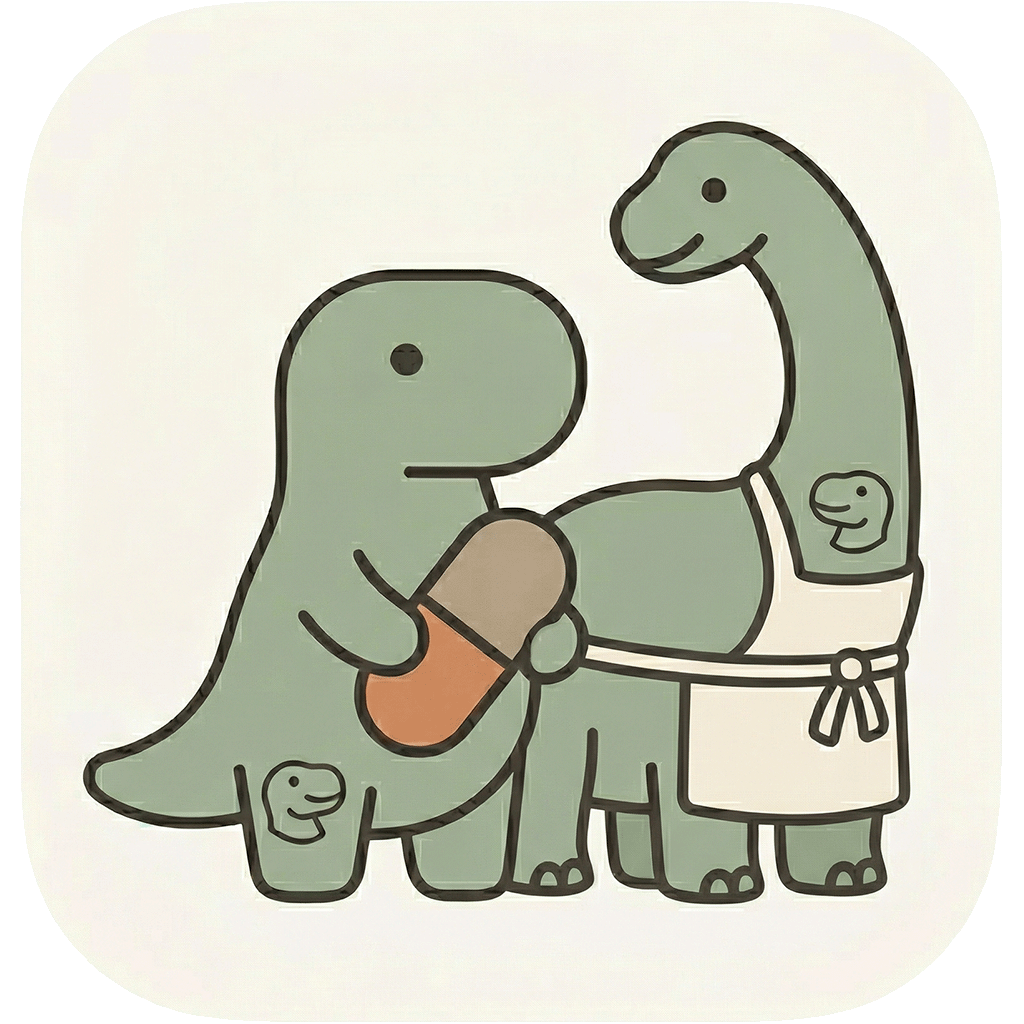
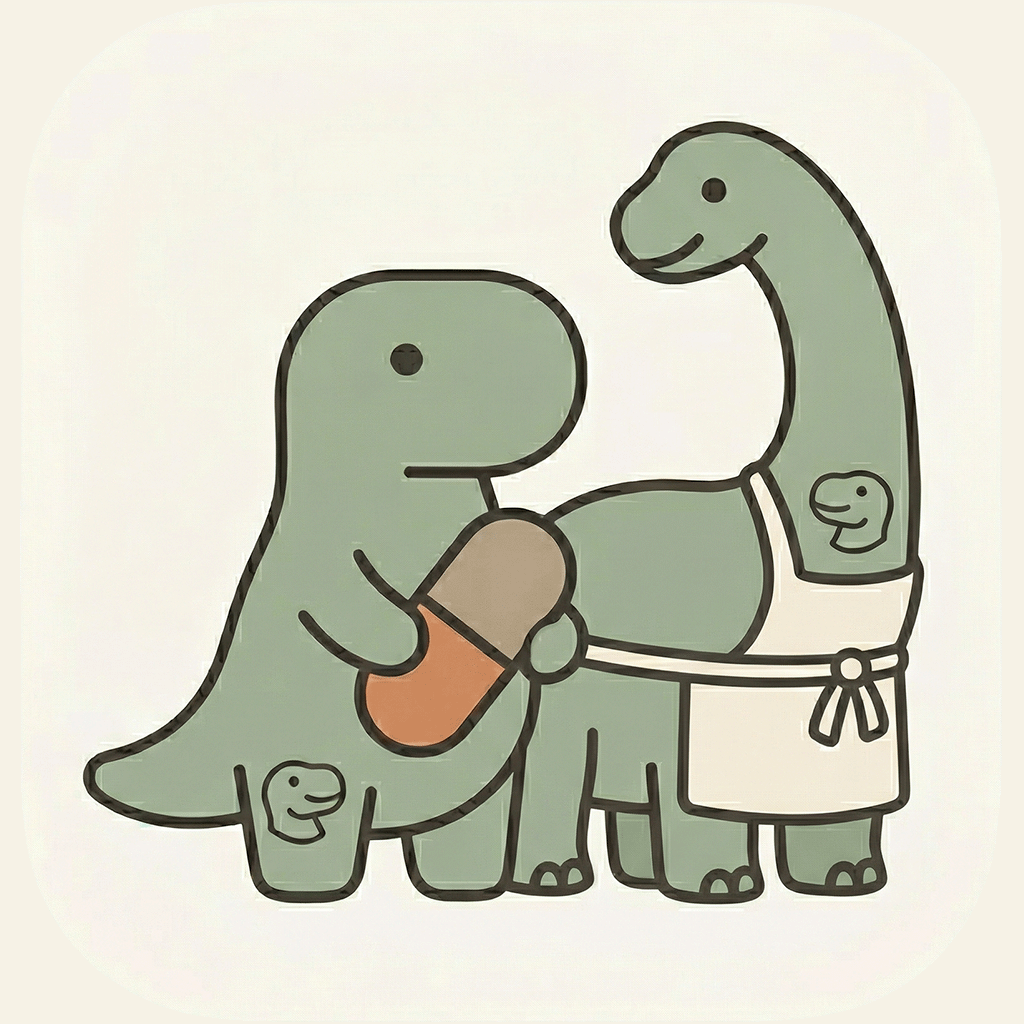
feat(release): preparar publicación App Store
- eas.json: EXPO_PUBLIC_BACKEND_URL en production (stock compartido rompía sin ella); esqueleto submit.production (PENDIENTE_* a rellenar por Diana)
- scripts/eas-write-env.js: materializa .env desde EAS env vars en el worker para que @env vea SENTRY_DSN/POSTHOG_* en builds de nube
- package.json: scripts eas:build:production y eas:submit:production
- app.json: usage strings HealthKit unificados (infoPlist = plugin kingstinct); quitar @sentry/react-native duplicado en plugins
- docs/store/app-store-metadata.md: ficha, descripción, keywords, notas al reviewer (modo demo), guía de screenshots y App Privacy campo por campo
- PRIVACY.md: URL canónica pública y contacto concreto
- release-versioning.md: flujo App Store actualizado (EAS env vars, submit, URL privacidad)
- assets: icon.png aplanado sin canal alpha (evita ITMS-90717); splash-icon.png 5.0→2.1 MB

Changed region(s): [[0.75, 0.0, 1.0, 1.0], [0.0, 0.0, 0.25, 1.0]]

diff --git a/scripts/eas-write-env.js b/scripts/eas-write-env.js
@@ -1,0 +1,22 @@
+/**
+ * En EAS Build materializa `.env` desde las env vars del worker para que
+ * babel-plugin-dotenv-import (`@env`) las vea: las EAS env vars llegan como
+ * process.env pero babel solo lee el archivo `.env` (gitignored, ausente en la nube).
+ * Fuera de EAS, o si ya existe `.env`, no hace nada.
+ */
+const fs = require('fs');
+const path = require('path');
+
+const KEYS = ['SENTRY_DSN', 'POSTHOG_API_KEY', 'POSTHOG_HOST'];
+
+const envPath = path.join(__dirname, '..', '.env');
+
+if (process.env.EAS_BUILD !== 'true' || fs.existsSync(envPath)) {
+  process.exit(0);
+}
+
+const present = KEYS.filter((key) => process.env[key]);
+const lines = present.map((key) => `${key}=${process.env[key]}`);
+// Siempre escribe el archivo (aunque quede vacío) para que dotenv-import no falle por ENOENT.
+fs.writeFileSync(envPath, lines.length ? `${lines.join('\n')}\n` : '');
+console.log(`[eas-write-env] .env generado con: ${present.join(', ') || '(ninguna var presente)'}`);

diff --git a/docs/store/app-store-metadata.md b/docs/store/app-store-metadata.md
@@ -1,0 +1,113 @@
+# App Store Connect — metadata, notas al reviewer y App Privacy
+
+Borradores listos para pegar al crear la ficha en App Store Connect. Complementa el flujo de release en [`docs/specs/release-versioning.md`](../specs/release-versioning.md) (sección «App Store»).
+
+## Ficha
+
+| Campo                    | Valor propuesto                                                                                                          |
+| ------------------------ | ------------------------------------------------------------------------------------------------------------------------ |
+| **Nombre** (máx. 30)     | `La Comuna — Ciclo y tomas`                                                                                              |
+| **Subtítulo** (máx. 30)  | `Suplementos según tu fase`                                                                                              |
+| **Categoría primaria**   | Salud y forma física (Health & Fitness)                                                                                  |
+| **Categoría secundaria** | Estilo de vida (opcional)                                                                                                |
+| **Age rating**           | 12+ (información médica/de tratamiento infrecuente y leve — suplementos)                                                 |
+| **Precio**               | Gratis. Sin compras in-app. Donaciones **solo** vía GitHub Sponsors en el repo, nunca dentro de la app (guideline 3.2.2) |
+| **URL de soporte**       | <https://github.com/sistemasconscientes/comuna-app/issues>                                                               |
+| **URL de privacidad**    | <https://github.com/sistemasconscientes/comuna-app/blob/main/docs/PRIVACY.md>                                            |
+| **Copyright**            | © 2026 Sistemas Conscientes                                                                                              |
+
+> El nombre en App Store debe ser único globalmente; si `La Comuna` está tomado, alternativas: `La Comuna: suplementos y ciclo`, `Comuna — ciclo menstrual`.
+
+## Descripción (borrador)
+
+```
+La Comuna te acompaña a tomar tus suplementos según la fase de tu ciclo menstrual.
+
+Conecta tu propio workspace de Notion —tus datos viven contigo, no en nuestros servidores— y la app organiza tus suplementos, tés y plan de comidas por fase: menstrual, folicular, ovulatoria y lútea.
+
+• Registro diario de tomas con recordatorios locales
+• Fase del ciclo calculada con datos de Apple Salud (con tu permiso, solo en tu dispositivo)
+• Control de stock con aviso de recompra
+• Plan de comidas de la semana desde tu Notion
+• Sección Salud: sueño, frecuencia cardiaca, HRV y más señales de Apple Salud, en modo observación
+
+Sin cuenta, sin registro, sin anuncios. La app funciona con el token de una integración interna de Notion que tú creas y controlas; también puedes explorarla con datos de ejemplo sin conectar nada.
+
+Código abierto (GPL-3.0): audita exactamente qué hace la app en github.com/sistemasconscientes/comuna-app
+```
+
+## Keywords (máx. 100 caracteres)
+
+```
+ciclo,menstrual,suplementos,fases,notion,ovulación,lútea,seguimiento,tomas,hábitos,salud
+```
+
+(91 caracteres; no repetir palabras que ya están en nombre/subtítulo si se necesita espacio.)
+
+## Notas al reviewer (App Review Information → Notes)
+
+Pegar en inglés (recomendado para App Review):
+
+```
+La Comuna is a supplement-tracking app organized around menstrual cycle phases.
+It does NOT require an account. To review all functionality without any setup:
+
+1. On first launch, tap "Explorar con datos de ejemplo" (Explore with sample data)
+   on the onboarding screen. This enables a fully offline demo mode with two
+   sample profiles (Luna and Mar), sample supplements, teas and cycle phases.
+2. All tabs work in demo mode: Home (daily check-off), Stock, Meals, Health, Profile.
+3. Demo mode persists across launches; it can be turned off from Profile.
+
+Notes:
+- The app's normal mode connects to the USER'S OWN Notion workspace using an
+  internal integration token the user creates themselves (no OAuth, no backend
+  of ours). No credentials are needed for review thanks to demo mode.
+- HealthKit: the Health tab reads cycle and wellness data on-device only. On a
+  review device/simulator without Health data, the tab will show empty/permission
+  states — this is expected. Health data never leaves the device.
+- No account creation, no purchases, no ads, no tracking (no ATT prompt).
+```
+
+**Contacto de review:** nombre, email y teléfono de Diana (se rellenan en el formulario, no aquí).
+
+## Screenshots
+
+Con `supportsTablet: true` en `app.json`, App Store Connect exige **también screenshots de iPad** (13", 2064×2752). Decidir: mantener soporte iPad (y capturar en simulador iPad Pro 13") o quitar `supportsTablet` antes del build para publicar solo iPhone.
+
+Requeridos iPhone: **6.9"** (1320×2868, p. ej. simulador iPhone 17 Pro Max); App Store Connect deriva los tamaños menores si no se suben.
+
+Capturas sugeridas (en modo demo, perfil Luna):
+
+1. Home — tomas del día con fase y día de ciclo visibles
+2. Onboarding — pantalla con «Explorar con datos de ejemplo» (transmite «sin cuenta»)
+3. Stock — lista con chips de temporada y aviso de recompra
+4. Comidas — plan del día
+5. Salud — sección de observación (idealmente en un dispositivo con datos reales; si no, omitir)
+
+Cómo: simulador → `Cmd+S` guarda PNG al escritorio en la resolución del dispositivo.
+
+## App Privacy (cuestionario, respuestas propuestas)
+
+Coherentes con [`docs/PRIVACY.md`](../PRIVACY.md). «Collect» para Apple = datos que salen del dispositivo hacia el developer o terceros. Los datos hacia **el Notion de la propia usuaria** (con su token) no son accesibles para nosotras; HealthKit se lee on-device.
+
+**Si el build de producción lleva Sentry + PostHog** (lo esperado; ver paso 2 del flujo):
+
+| Pregunta                                                                                                                    | Respuesta                                                                                   |
+| --------------------------------------------------------------------------------------------------------------------------- | ------------------------------------------------------------------------------------------- |
+| Do you collect data from this app?                                                                                          | **Yes**                                                                                     |
+| **Usage Data → Product Interaction** (PostHog: eventos tipo «abrió pestaña Stock», perfil genérico `profile_1`/`profile_2`) | Collected. **Not linked** to user's identity. **Not used for tracking**. Purpose: Analytics |
+| **Diagnostics → Crash Data** (Sentry: stack traces técnicos)                                                                | Collected. **Not linked**. **Not used for tracking**. Purpose: App Functionality            |
+| Health & Fitness                                                                                                            | **Not collected** (HealthKit se procesa solo en el dispositivo)                             |
+| Identifiers, Contact Info, Location, Financial, etc.                                                                        | Not collected                                                                               |
+| Tracking (ATT)                                                                                                              | **No** — no hay tracking entre apps ni data brokers                                         |
+
+**Si el build sale sin `SENTRY_DSN` ni `POSTHOG_API_KEY`:** declarar **«Data Not Collected»** en todo.
+
+## Checklist de creación de la app en ASC
+
+1. Crear el App ID / registrar bundle `com.janee.comunaapp` (lo hace EAS automáticamente si ya hubo builds TestFlight)
+2. App Store Connect → Apps → nueva app → copiar el **Apple ID numérico** de la app → pegarlo como `ascAppId` en `eas.json` (`submit.production.ios`), junto con `appleId` y `appleTeamId`
+3. Rellenar ficha con este documento; subir screenshots
+4. Completar App Privacy con la tabla de arriba
+5. `npm run eas:build:production` → `npm run eas:submit:production`
+6. Seleccionar el build, pegar notas al reviewer, enviar a revisión

diff --git a/docs/specs/release-versioning.md b/docs/specs/release-versioning.md
@@ -65,11 +65,12 @@ Tras `npm version patch|minor|major`, si tenés hook `version` en `package.json`
 El flujo TestFlight de arriba sigue igual; para publicar en App Store se agrega:
 
 1. `npm run version:bump:feature` (o bump minor/major) + `version:sync`; `nativeBuild` sube como en cualquier build.
-2. `eas build --profile production` (usa `EXPO_PUBLIC_APP_ENV=production`; secrets DSN/PostHog vía EAS env).
-3. `eas submit --profile production` → App Store Connect.
-4. En App Store Connect: notas de versión, captura de pantallas, y **notas para el reviewer**: la app funciona sin cuenta usando el botón **«Explorar con datos de ejemplo»** del onboarding (no requiere crear integración de Notion).
-5. **App Privacy**: los datos viven en el dispositivo y el Notion de la usuaria; HealthKit se lee on-device; sin tracking. URL de política de privacidad: `docs/PRIVACY.md` publicado en el repo público.
+2. **`npm run eas:build:production`** (bump de `nativeBuild` + `eas build --profile production`; usa `EXPO_PUBLIC_APP_ENV=production` y `EXPO_PUBLIC_BACKEND_URL` desde `eas.json`). Las vars de observabilidad (`SENTRY_DSN`, `POSTHOG_API_KEY`, `POSTHOG_HOST`) deben existir como **EAS env vars** del proyecto (`eas env:create`, visibilidad secret): `eas-build-pre-install` corre [`scripts/eas-write-env.js`](../../scripts/eas-write-env.js), que las materializa en `.env` en el worker para que `@env` (babel-plugin-dotenv-import) las vea. Sin ellas la app compila pero sin Sentry/PostHog. `SENTRY_AUTH_TOKEN` (source maps) también va como EAS env var.
+3. **`npm run eas:submit:production`** → App Store Connect. Antes, reemplazar los `PENDIENTE_*` de `submit.production.ios` en [`eas.json`](../../eas.json): `appleId` (Apple ID del developer), `ascAppId` (ID numérico de la app en App Store Connect, se obtiene al crearla), `appleTeamId` (Team ID de la membresía).
+4. En App Store Connect: metadata (descripción, keywords, screenshots) y **notas para el reviewer** — todo redactado y listo para pegar en [`docs/store/app-store-metadata.md`](../store/app-store-metadata.md). Clave para el reviewer: la app funciona sin cuenta con el botón **«Explorar con datos de ejemplo»** del onboarding (no requiere integración de Notion); en modo demo la pestaña Salud puede aparecer vacía (HealthKit sin datos en simulador/dispositivo de review).
+5. **App Privacy**: respuestas campo por campo en [`docs/store/app-store-metadata.md`](../store/app-store-metadata.md). URL de política de privacidad: **<https://github.com/sistemasconscientes/comuna-app/blob/main/docs/PRIVACY.md>** (el `docs/PRIVACY.md` del repo público).
 6. Smoke S1–S8 aplica igual, más: onboarding sin `.env` (conexión + demo), desconexión desde Perfil.
+7. Antes de subir: verificar que el icono del binario no tenga canal alpha (`sips -g hasAlpha assets/icon.png` → `no`; App Store rechaza transparencia con `ITMS-90717`).
 
 ## Opcional (futuro)
 

diff --git a/docs/PRIVACY.md b/docs/PRIVACY.md
@@ -1,6 +1,8 @@
 # Política de privacidad — La Comuna App
 
-_Última actualización: julio 2026_
+_Última actualización: agosto 2026_
+
+_URL canónica de este documento (la que se declara en App Store Connect): <https://github.com/sistemasconscientes/comuna-app/blob/main/docs/PRIVACY.md>_
 
 La Comuna App es una app de seguimiento de suplementos alineados a las fases del ciclo menstrual. Está diseñada para que **tus datos vivan contigo**: en tu teléfono y en tu propio workspace de Notion.
 
@@ -38,4 +40,4 @@ El código es abierto (GPL-3.0): puedes auditar exactamente qué hace la app en 
 
 ## Contacto
 
-Dudas o reportes de privacidad: abre un issue en el repositorio o escribe al correo indicado en la ficha de App Store.
+Dudas o reportes de privacidad: abre un issue en [el repositorio](https://github.com/sistemasconscientes/comuna-app/issues) o escribe a **diana@sistemasconscientes.tech**.
